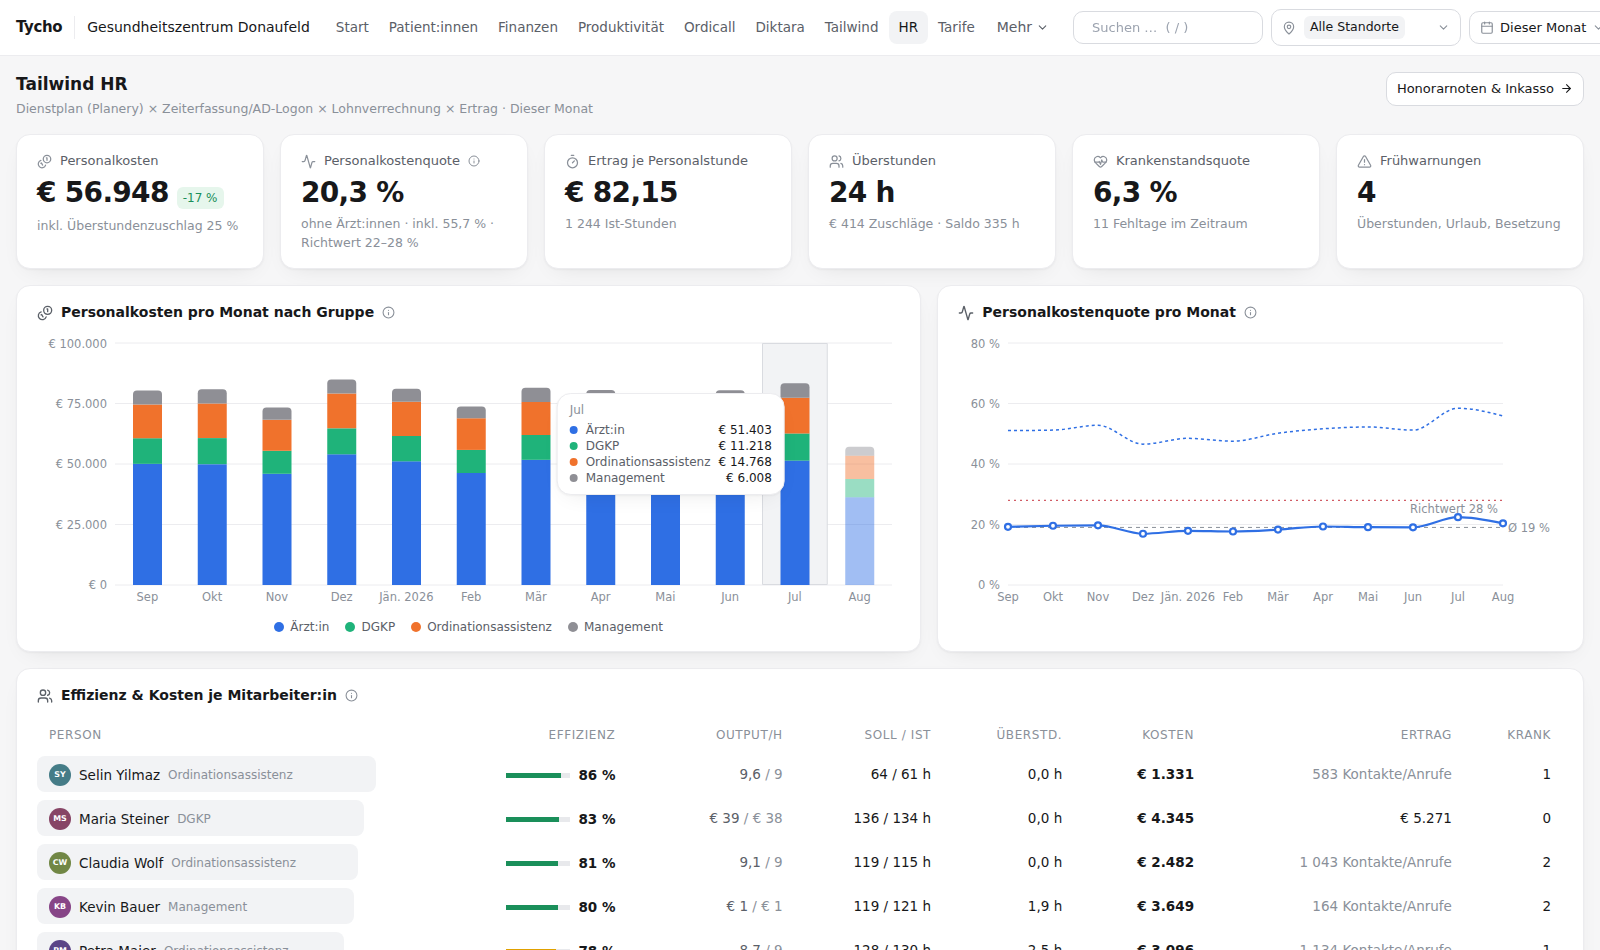
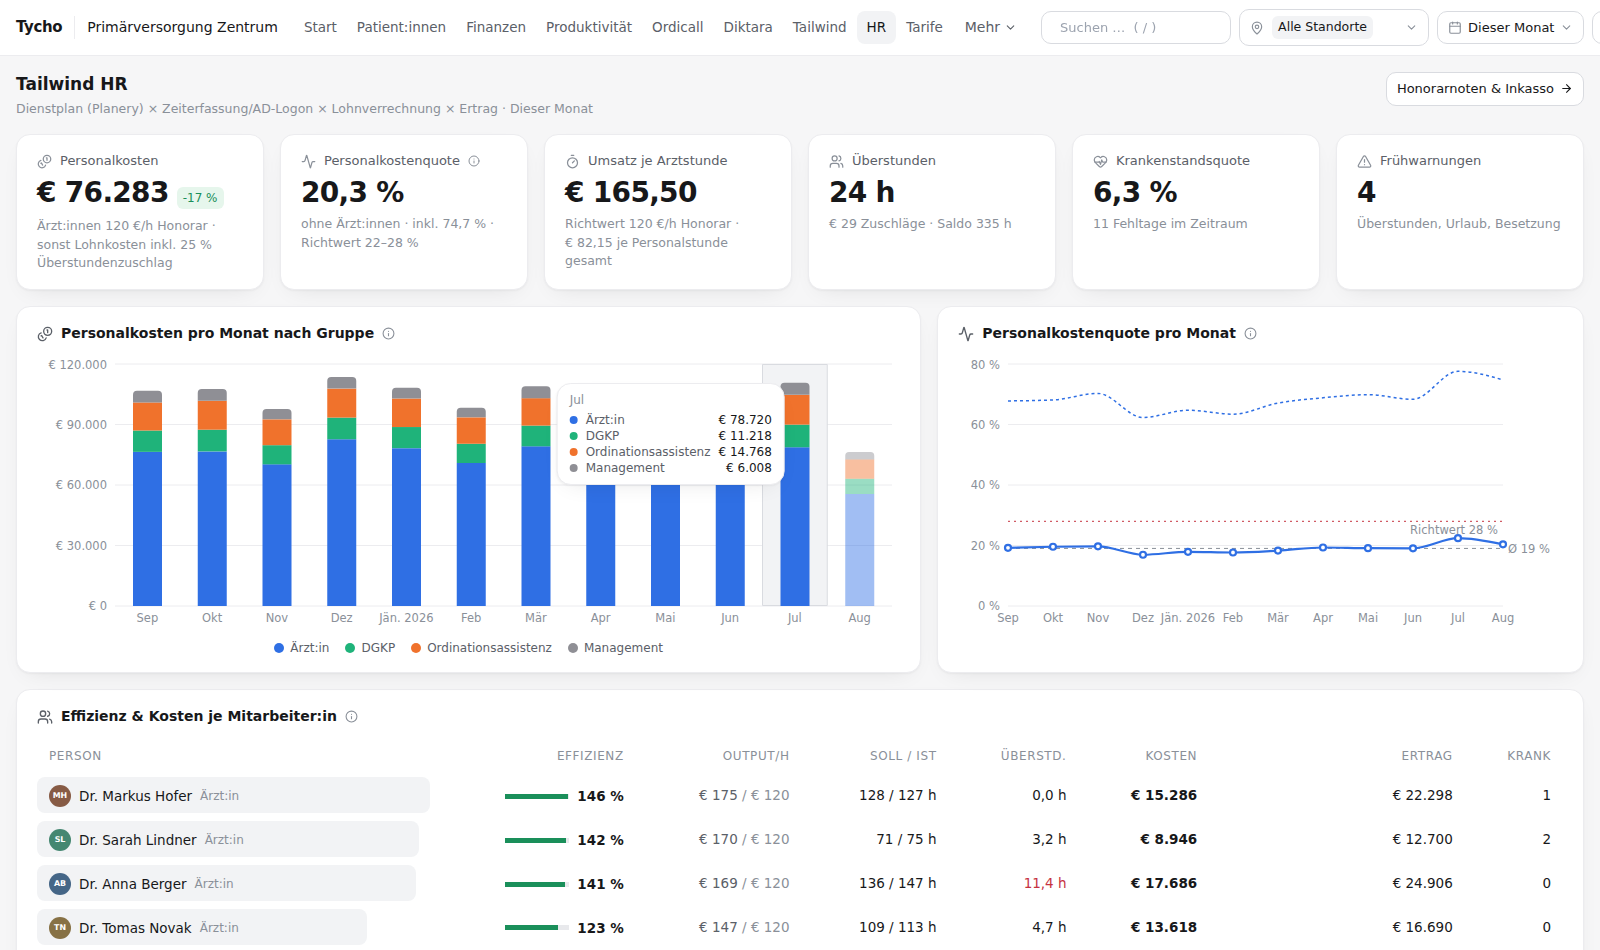
Beispiel: Primärversorgung Zentrum; Ärzt:innen mit 120 €/h Honorar als Kostensatz und Effizienz-Richtwert
Claude-Session: https://claude.ai/code/session_01JGQ8YRSs6aRVZk37yCCs7E

diff --git a/web/src/pages/HR.tsx b/web/src/pages/HR.tsx
@@ -37,9 +37,9 @@ export default function HRPage() {
       </div>
 
       <div className="grid grid-cols-2 lg:grid-cols-3 xl:grid-cols-6 gap-4">
-        <Kpi icon={<Coins size={15} />} label="Personalkosten" value={fmt.eur(cost)} delta={prevCost ? pctDelta(cost, prevCost) : null} sub="inkl. Überstundenzuschlag 25 %" invert />
+        <Kpi icon={<Coins size={15} />} label="Personalkosten" value={fmt.eur(cost)} delta={prevCost ? pctDelta(cost, prevCost) : null} sub="Ärzt:innen 120 €/h Honorar · sonst Lohnkosten inkl. 25 % Überstundenzuschlag" invert />
         <Kpi icon={<Activity size={15} />} label="Personalkostenquote" value={fmt.pct1(quote)} sub={`ohne Ärzt:innen · inkl. ${fmt.pct1(revenue ? cost / revenue : 0)} · Richtwert 22–28 %`} hint="Personalkosten (DGKP, Assistenz, Management) ÷ Umsatz. Ärzt:innen sind als Gesellschafter:innen nicht Personal im engeren Sinn; der Wert inklusive steht daneben." />
-        <Kpi icon={<Timer size={15} />} label="Ertrag je Personalstunde" value={fmt.eur2(perHour)} sub={`${fmt.num(Math.round(sum('istH')))} Ist-Stunden`} />
+        <Kpi icon={<Timer size={15} />} label="Umsatz je Arztstunde" value={fmt.eur2(rows.filter((r) => r.role === 'arzt').reduce((a, r) => a + r.revenue, 0) / Math.max(1, rows.filter((r) => r.role === 'arzt').reduce((a, r) => a + r.istH, 0)))} delta={null} sub={`Richtwert 120 €/h Honorar · ${fmt.eur2(perHour)} je Personalstunde gesamt`} />
         <Kpi icon={<Users size={15} />} label="Überstunden" value={`${fmt.num(Math.round(sum('overtimeH')))} h`} sub={`${fmt.eur(sum('overtimeCost'))} Zuschläge · Saldo ${fmt.num(HR.reduce((a, h) => a + h.overtimeBalanceH, 0))} h`} invert />
         <Kpi icon={<HeartPulse size={15} />} label="Krankenstandsquote" value={fmt.pct1(sick)} sub={`${sum('sickDays')} Fehltage im Zeitraum`} invert />
         <Kpi icon={<AlertTriangle size={15} />} label="Frühwarnungen" value={warnings.length} sub="Überstunden, Urlaub, Besetzung" />
@@ -78,11 +78,11 @@ export default function HRPage() {
         </Panel>
       </div>
 
-      <Panel icon={<Users size={16} />} title={personMode ? 'Effizienz & Kosten je Mitarbeiter:in' : 'Effizienz & Kosten je Gruppe'} hint="Soll aus Dienstplan (Planery), Ist aus Zeiterfassung/AD-Logon, Kosten aus Lohnverrechnung, Ertrag aus PVS und Ordicall. Effizienz = Output je Stunde ÷ Rollenziel (max. 125 %)">
+      <Panel icon={<Users size={16} />} title={personMode ? 'Effizienz & Kosten je Mitarbeiter:in' : 'Effizienz & Kosten je Gruppe'} hint="Soll aus Dienstplan (Planery), Ist aus Zeiterfassung/AD-Logon, Kosten aus Lohnverrechnung, Ertrag aus PVS und Ordicall. Effizienz = Output je Stunde ÷ Richtwert. Ärzt:innen: Umsatz je Stunde gegen das Honorar von 120 €/h (100 % = Honorar gedeckt), DGKP 38 €/h, Assistenz 9 Kontakte + Anrufe je Stunde">
         {personMode ? (
           <BarTable rows={[...rows].sort((a, b) => b.efficiency - a.efficiency)} keyOf={(r) => r.staffId} cols={[
             { key: 'n', label: 'Person', render: (r) => { const s = staffById(r.staffId)!; return <span className="inline-flex items-center gap-2 font-medium"><Avatar name={s.name} hue={s.avatarHue} size={22} />{s.name} <span className="text-ink-3 text-[12px] font-normal">{ROLE_LABEL[s.role]}</span></span> }, bar: (r) => r.efficiency },
-            { key: 'e', label: 'Effizienz', align: 'right', render: (r) => <span className="inline-flex items-center gap-2 justify-end"><span className="w-16"><MiniBar value={r.efficiency} tone={r.efficiency >= 0.8 ? 'var(--good-text)' : r.efficiency >= 0.6 ? '#e0a100' : 'var(--bad-text)'} height={5} /></span><span className="font-semibold">{fmt.pct(r.efficiency)}</span></span> },
+            { key: 'e', label: 'Effizienz', align: 'right', render: (r) => <span className="inline-flex items-center gap-2 justify-end"><span className="w-16"><MiniBar value={r.efficiency} tone={r.efficiency >= 1 ? 'var(--good-text)' : r.efficiency >= 0.8 ? '#e0a100' : 'var(--bad-text)'} max={1.5} height={5} /></span><span className="font-semibold">{fmt.pct(r.efficiency)}</span></span> },
             { key: 'o', label: 'Output/h', align: 'right', render: (r) => <span className="text-ink-2">{r.role === 'assistenz' ? fmt.num1(r.outputPerHour) : fmt.eur(Math.round(r.outputPerHour))} <span className="text-ink-3">/ {r.role === 'assistenz' ? r.target : fmt.eur(r.target)}</span></span> },
             { key: 's', label: 'Soll / Ist', align: 'right', render: (r) => `${fmt.num(Math.round(r.sollH))} / ${fmt.num(Math.round(r.istH))} h` },
             { key: 'ot', label: 'Überstd.', align: 'right', render: (r) => <span className={r.overtimeH > 10 ? 'text-status-critical' : ''}>{fmt.num1(r.overtimeH)} h</span> },
@@ -93,7 +93,7 @@ export default function HRPage() {
         ) : (
           <BarTable rows={groups} keyOf={(g) => g.role} cols={[
             { key: 'n', label: 'Gruppe', render: (g) => <span className="font-medium">{g.label} <span className="text-ink-3 text-[12px] font-normal">· {g.n} Personen</span></span>, bar: (g) => g.efficiency },
-            { key: 'e', label: 'Effizienz', align: 'right', render: (g) => <span className="font-semibold">{fmt.pct(g.efficiency)}</span> },
+            { key: 'e', label: 'Effizienz', align: 'right', render: (g) => <span className={`font-semibold ${g.efficiency >= 1 ? 'text-status-good' : g.efficiency >= 0.8 ? '' : 'text-status-critical'}`}>{fmt.pct(g.efficiency)}</span> },
             { key: 'o', label: 'Ø Output/h', align: 'right', render: (g) => <span className="text-ink-2">{g.role === 'assistenz' ? fmt.num1(g.outputPerHour) : fmt.eur(Math.round(g.outputPerHour))} <span className="text-ink-3">/ {g.role === 'assistenz' ? g.target : fmt.eur(g.target)} · {HR_TARGETS[g.role].label}</span></span> },
             { key: 's', label: 'Soll / Ist', align: 'right', render: (g) => `${fmt.num(Math.round(g.sollH))} / ${fmt.num(Math.round(g.istH))} h` },
             { key: 'ot', label: 'Überstd.', align: 'right', render: (g) => `${fmt.num1(g.overtimeH)} h` },

diff --git a/web/src/data/agent.ts b/web/src/data/agent.ts
@@ -49,7 +49,7 @@ const INTENTS: { test: RegExp; run: (q: string, d: Data, personMode: boolean) =>
   { test: /abbruch|verpasst|weiterleit/i, run: (_q, d) => { const t = d.calls.reduce((a, c) => a + c.total, 0), m = d.calls.reduce((a, c) => a + c.missed, 0), tr = d.calls.reduce((a, c) => a + c.transferred, 0); return { text: `Von ${fmt.num(t)} Anrufen wurden ${fmt.num(m)} (${fmt.pct1(m / t)}) abgebrochen und ${fmt.num(tr)} (${fmt.pct1(tr / t)}) ans Team weitergeleitet. Weiterleitungen betreffen vor allem Befundauskünfte, weil die KI dort aus Verschwiegenheitsgründen an den Empfang übergibt.`, chips: [{ label: 'Ordicall', to: '/ordicall' }] } } },
   { test: /anliegen.*(offen|lang)|ordicall überlassen|ganz ordicall/i, run: () => ({ text: `Am längsten offen bleiben Befundauskünfte (Ø 2 h 38 min bis erledigt). Ganz an Ordicall abgeben ließen sich Öffnungszeiten-Infos (98 % KI-Quote), Terminvereinbarung (91 %) und Rezeptbestellung (88 %).`, chips: [{ label: 'Ordicall', to: '/ordicall' }] }) },
   { test: /personalkosten|kostenquote|kosten.*(personal|mitarbeiter)|effizien.*(mitarbeiter|personal|team)|wer .*effizient|teuer/i, run: (_q, d, pm) => { const rows = hrRows(d.cur); const g = hrGroups(rows); const cost = rows.reduce((a, r) => a + r.cost, 0); const best = [...rows].sort((a, b) => b.efficiency - a.efficiency); return {
-    text: `Personalkosten im Zeitraum ${d.range.label}: ${eur(cost)}, das ist eine Personalkostenquote von ${fmt.pct1(rows.filter((r) => r.role !== 'arzt').reduce((a, r) => a + r.cost, 0) / (d.s.revenue * 1.2))} ohne Ärzt:innen (Richtwert 22–28 %; inklusive Ärzt:innen ${fmt.pct1(cost / (d.s.revenue * 1.2))}). Ertrag je Personalstunde ${fmt.eur2(d.s.revenue / rows.reduce((a, r) => a + r.istH, 0))}. ${pm ? `Effizienteste Person: ${STAFF.find((s) => s.id === best[0].staffId)?.name} (${fmt.pct(best[0].efficiency)} des Rollenziels), Nachholbedarf bei ${STAFF.find((s) => s.id === best[best.length - 1].staffId)?.name} (${fmt.pct(best[best.length - 1].efficiency)}).` : `Nach Gruppen: ${g.map((x) => `${x.label} ${fmt.pct(x.efficiency)}`).join(', ')}.`} Überstunden kosten ${eur(rows.reduce((a, r) => a + r.overtimeCost, 0))} Zuschläge.`,
+    text: `Personalkosten im Zeitraum ${d.range.label}: ${eur(cost)}, das ist eine Personalkostenquote von ${fmt.pct1(rows.filter((r) => r.role !== 'arzt').reduce((a, r) => a + r.cost, 0) / (d.s.revenue * 1.2))} ohne Ärzt:innen (Richtwert 22–28 %; inklusive Ärzt:innen ${fmt.pct1(cost / (d.s.revenue * 1.2))}). Ertrag je Personalstunde ${fmt.eur2(d.s.revenue / rows.reduce((a, r) => a + r.istH, 0))}. ${pm ? `Effizienteste Person: ${STAFF.find((s) => s.id === best[0].staffId)?.name} (${fmt.pct(best[0].efficiency)} des Richtwerts; Ärzt:innen gegen 120 €/h Honorar), Nachholbedarf bei ${STAFF.find((s) => s.id === best[best.length - 1].staffId)?.name} (${fmt.pct(best[best.length - 1].efficiency)}).` : `Nach Gruppen: ${g.map((x) => `${x.label} ${fmt.pct(x.efficiency)}`).join(', ')}.`} Überstunden kosten ${eur(rows.reduce((a, r) => a + r.overtimeCost, 0))} Zuschläge.`,
     table: { head: pm ? ['Person', 'Effizienz', 'Kosten', 'Ertrag'] : ['Gruppe', 'Effizienz', 'Kosten', 'Ertrag'], rows: pm ? best.map((r) => [STAFF.find((s) => s.id === r.staffId)!.name, fmt.pct(r.efficiency), eur(r.cost), r.revenue ? eur(r.revenue) : `${fmt.num(r.contacts + r.calls)} Kontakte`]) : g.map((x) => [x.label, fmt.pct(x.efficiency), eur(x.cost), x.revenue ? eur(x.revenue) : `${fmt.num(x.contacts + x.calls)} Kontakte`]) },
     chips: [{ label: 'Tailwind HR', to: '/hr' }] } } },
   { test: /besetz|unterbesetzt|dienstplan|schicht/i, run: () => ({ text: `Laut Dienstplan (Planery) sind Montag bis Donnerstag 9–11 Uhr drei Assistenzkräfte eingeplant, das Aufkommen liegt dort trotzdem bei über 6 Kontakten je Kraft und Stunde – Empfehlung: montags eine vierte Kraft 9–11 Uhr. Freitag ab 13 Uhr ist mit unter 2,5 Kontakten je Kraft Reserve, eine Kraft weniger spart rund 4 Stunden je Woche.`, chips: [{ label: 'Besetzung ansehen', to: '/hr' }] }) },

diff --git a/web/src/data/staff.ts b/web/src/data/staff.ts
@@ -3,11 +3,12 @@ import type { StaffMember } from './types'
 // Personalstamm – in Produktion aus Microsoft Active Directory (LDAP, read-only):
 // sAMAccountName, userPrincipalName, displayName, title, department, memberOf.
 // Kosten/FTE kommen aus dem Dienstplan bzw. der Lohnverrechnung (Import, read-only).
+// Ärzt:innen der PVE erhalten 120 € Honorar je Stunde (Kosten = 120 × FTE × 173 h).
 export const STAFF: StaffMember[] = [
-  { id: 'a.berger', account: 'a.berger', upn: 'a.berger@ordination.local', name: 'Dr. Anna Berger', title: 'Ärztliche Leitung · Allgemeinmedizin', role: 'arzt', department: 'Ärzte', fte: 1, costPerMonth: 14500, adGroups: ['G_Aerzte', 'G_Diktara', 'G_Tycho_Leitung', 'G_Tycho_Admin'], consent: 'erteilt', avatarHue: 210, since: '2014-03-01' },
-  { id: 'm.hofer', account: 'm.hofer', upn: 'm.hofer@ordination.local', name: 'Dr. Markus Hofer', title: 'Allgemeinmedizin', role: 'arzt', department: 'Ärzte', fte: 1, costPerMonth: 12800, adGroups: ['G_Aerzte', 'G_Diktara'], consent: 'erteilt', avatarHue: 20, since: '2017-09-01' },
-  { id: 's.lindner', account: 's.lindner', upn: 's.lindner@ordination.local', name: 'Dr. Sarah Lindner', title: 'Allgemeinmedizin · Teilzeit', role: 'arzt', department: 'Ärzte', fte: 0.6, costPerMonth: 7900, adGroups: ['G_Aerzte', 'G_Diktara'], consent: 'erteilt', avatarHue: 160, since: '2021-01-11' },
-  { id: 't.novak', account: 't.novak', upn: 't.novak@ordination.local', name: 'Dr. Tomas Novak', title: 'Allgemeinmedizin · seit 03/2026', role: 'arzt', department: 'Ärzte', fte: 0.8, costPerMonth: 10200, adGroups: ['G_Aerzte', 'G_Diktara'], consent: 'erteilt', avatarHue: 40, since: '2026-03-02' },
+  { id: 'a.berger', account: 'a.berger', upn: 'a.berger@ordination.local', name: 'Dr. Anna Berger', title: 'Ärztliche Leitung · Allgemeinmedizin', role: 'arzt', department: 'Ärzte', fte: 1, costPerMonth: 20760, adGroups: ['G_Aerzte', 'G_Diktara', 'G_Tycho_Leitung', 'G_Tycho_Admin'], consent: 'erteilt', avatarHue: 210, since: '2014-03-01' },
+  { id: 'm.hofer', account: 'm.hofer', upn: 'm.hofer@ordination.local', name: 'Dr. Markus Hofer', title: 'Allgemeinmedizin', role: 'arzt', department: 'Ärzte', fte: 1, costPerMonth: 20760, adGroups: ['G_Aerzte', 'G_Diktara'], consent: 'erteilt', avatarHue: 20, since: '2017-09-01' },
+  { id: 's.lindner', account: 's.lindner', upn: 's.lindner@ordination.local', name: 'Dr. Sarah Lindner', title: 'Allgemeinmedizin · Teilzeit', role: 'arzt', department: 'Ärzte', fte: 0.6, costPerMonth: 12456, adGroups: ['G_Aerzte', 'G_Diktara'], consent: 'erteilt', avatarHue: 160, since: '2021-01-11' },
+  { id: 't.novak', account: 't.novak', upn: 't.novak@ordination.local', name: 'Dr. Tomas Novak', title: 'Allgemeinmedizin · seit 03/2026', role: 'arzt', department: 'Ärzte', fte: 0.8, costPerMonth: 16608, adGroups: ['G_Aerzte', 'G_Diktara'], consent: 'erteilt', avatarHue: 40, since: '2026-03-02' },
   { id: 'm.steiner', account: 'm.steiner', upn: 'm.steiner@ordination.local', name: 'Maria Steiner', title: 'DGKP · Pflegeleitung', role: 'dgkp', department: 'Pflege', fte: 1, costPerMonth: 5600, adGroups: ['G_Pflege'], consent: 'erteilt', avatarHue: 330, since: '2016-05-02' },
   { id: 'j.pichler', account: 'j.pichler', upn: 'j.pichler@ordination.local', name: 'Jonas Pichler', title: 'DGKP', role: 'dgkp', department: 'Pflege', fte: 0.75, costPerMonth: 4300, adGroups: ['G_Pflege'], consent: 'erteilt', avatarHue: 120, since: '2023-10-02' },
   { id: 'p.maier', account: 'p.maier', upn: 'p.maier@ordination.local', name: 'Petra Maier', title: 'Ordinationsassistenz · Leitung', role: 'assistenz', department: 'Empfang', fte: 1, costPerMonth: 4100, adGroups: ['G_Empfang', 'G_Ordicall_Admin'], consent: 'erteilt', avatarHue: 260, since: '2012-02-01' },

diff --git a/web/src/data/tailwind.ts b/web/src/data/tailwind.ts
@@ -172,10 +172,11 @@ import { demo as _demo } from './mock'
 import type { DayRecord, Role } from './types'
 
 /** Stundensatz (AG-Gesamtkosten) je Person */
-export const hourlyRate = (staffId: string) => { const s = _STAFF.find((x) => x.id === staffId)!; return s.costPerMonth / (s.fte * 173) }
+export const DOCTOR_HOURLY = 120 // € Honorar je Stunde (PVE-Vertrag)
+export const hourlyRate = (staffId: string) => { const s = _STAFF.find((x) => x.id === staffId)!; return s.role === 'arzt' ? DOCTOR_HOURLY : s.costPerMonth / (s.fte * 173) }
 /** Zielwerte je Rolle: Ertrag bzw. Output je bezahlter Stunde */
 export const HR_TARGETS: Record<Role, { label: string; target: number; unit: string }> = {
-  arzt: { label: 'Umsatz je Stunde', target: 190, unit: '€/h' },
+  arzt: { label: 'Umsatz je Stunde vs. Honorar 120 €/h', target: DOCTOR_HOURLY, unit: '€/h' },
   dgkp: { label: 'Umsatz je Stunde', target: 38, unit: '€/h' },
   assistenz: { label: 'Kontakte + Anrufe je Stunde', target: 9, unit: '/h' },
   management: { label: 'Prozessqualität', target: 1, unit: '' },
@@ -195,13 +196,13 @@ export function hrRows(recs: DayRecord[]): HrRow[] {
     const sollH = s.fte * 8.5 * worked.length
     const overtimeH = Math.max(0, istH - sollH)
     const rate = hourlyRate(s.id)
-    const cost = istH * rate + overtimeH * rate * 0.25
+    const cost = s.role === 'arzt' ? istH * rate : istH * rate + overtimeH * rate * 0.25 // Honorar je Stunde ohne Zuschlag
     const revenue = worked.reduce((a, r) => a + r.servicesValue, 0)
     const contacts = worked.reduce((a, r) => a + r.patientContacts, 0)
     const calls = worked.reduce((a, r) => a + r.callsHandled, 0)
     const output = s.role === 'arzt' || s.role === 'dgkp' ? (istH ? revenue / istH : 0) : s.role === 'assistenz' ? (istH ? (contacts + calls) / istH : 0) : 1
     const t = HR_TARGETS[s.role].target
-    return { staffId: s.id, role: s.role, days, sollH, istH, overtimeH, cost, overtimeCost: overtimeH * rate * 0.25, revenue, contacts, calls, outputPerHour: output, target: t, efficiency: Math.min(1.25, output / t) / 1.25, sickDays: rs.length - worked.length, ratePerH: rate }
+    return { staffId: s.id, role: s.role, days, sollH, istH, overtimeH, cost, overtimeCost: s.role === 'arzt' ? 0 : overtimeH * rate * 0.25, revenue, contacts, calls, outputPerHour: output, target: t, efficiency: t ? output / t : 0, sickDays: rs.length - worked.length, ratePerH: rate }
   }).filter((r) => r.istH > 0)
 }
 
@@ -222,7 +223,7 @@ export function hrMonthly() {
     const s = _STAFF.find((x) => x.id === r.staffId)!
     row.revenue += r.servicesValue * 1.2
     const istH = r.presenceMin / 60; const rate = hourlyRate(s.id); const ot = Math.max(0, istH - s.fte * 8.5)
-    row[s.role] += istH * rate + ot * rate * 0.25
+    row[s.role] += s.role === 'arzt' ? istH * rate : istH * rate + ot * rate * 0.25
     row.overtimeH += ot; if (r.presenceMin === 0) row.sickDays += 1
     map.set(key, row)
   }

diff --git a/web/src/data/score.ts b/web/src/data/score.ts
@@ -87,7 +87,7 @@ function componentsFor(staff: StaffMember, k: ReturnType<typeof kpisFor>): Score
     case 'arzt':
       return [
         { key: 'throughput', label: 'Durchsatz', value: k.contactsPerHour, target: 5.6, weight: 0.22, unit: 'Pat./h', hint: 'Patientenkontakte je Präsenzstunde (AD-Logon bis Logoff).' },
-        { key: 'contribution', label: 'Ertrag / Kosten', value: k.cost ? k.revenue / k.cost : 0, target: 2.2, weight: 0.24, unit: '×', hint: 'Verrechnete Leistungen im Verhältnis zu den Arbeitgeberkosten des Zeitraums.' },
+        { key: 'contribution', label: 'Ertrag / Honorar', value: k.cost ? k.revenue / k.cost : 0, target: 1.4, weight: 0.24, unit: '×', hint: 'Verrechnete Leistungen im Verhältnis zum Honorar (120 € je Stunde); 1,0 = Honorar gedeckt, Ziel 1,4.' },
         { key: 'doc', label: 'Dokumentation', value: k.docCompleteness, target: 0.97, weight: 0.16, unit: '', hint: 'Vollständigkeit von Kartei, ICD-10-Codierung und Leistungsblatt.' },
         { key: 'diktara', label: 'Diktara-Nutzung', value: k.diktaraShare, target: 0.8, weight: 0.1, unit: '', hint: 'Anteil der Konsultationen mit KI-Zusammenfassung.' },
         { key: 'telemed', label: 'Telemedizin', value: k.telemedShare, target: 0.15, weight: 0.12, unit: '', hint: 'Anteil telemedizinischer Konsultationen (Kennzeichnung 8xT, TM-V/TM-T) an allen Kontakten.' },

diff --git a/web/src/pages/Tarife.tsx b/web/src/pages/Tarife.tsx
@@ -52,7 +52,7 @@ export default function Tarife() {
       </div>
 
       {tab === 'katalog' && (
-        <Panel icon={<BookOpen size={16} />} title={`Honorarkatalog · ${PRACTICE.location} · Allgemeinmedizin`} hint="Struktur nach ÖGK-Honorarordnung (Kennzeichnungspositionen 8a–8i/8aT–8iT, PERS, Erstkontakt 10, 18EZ, 20, 34, 34a, 39, VU, MKP). Tarife sind Demo-Werte; der Landeskatalog wird importiert.">
+        <Panel icon={<BookOpen size={16} />} title={`Honorarkatalog · ${PRACTICE.name} · Allgemeinmedizin`} hint="Struktur nach ÖGK-Honorarordnung (Kennzeichnungspositionen 8a–8i/8aT–8iT, PERS, Erstkontakt 10, 18EZ, 20, 34, 34a, 39, VU, MKP). Tarife sind Demo-Werte; der Landeskatalog wird importiert.">
           <div className="overflow-x-auto"><table className="w-full text-[13px] min-w-[900px]">
             <thead><tr>{['Pos.', 'Leistung', 'Gruppe', 'Tarif', 'Anzahl', 'Umsatz', 'Regel / Limitierung', 'Träger', 'Rhythmus', 'Erbringung'].map((h, i) => <th key={h} className={`label uppercase tracking-[0.05em] text-[11px] px-3 py-2 ${i >= 3 && i <= 5 ? 'text-right' : 'text-left'}`}>{h}</th>)}</tr></thead>
             <tbody>{rows.map((s) => (

diff --git a/web/src/components/Layout.tsx b/web/src/components/Layout.tsx
@@ -55,7 +55,7 @@ const STATION_FACETS: Chrome['facets'] = [
     { title: 'Leistungsgruppe', sortable: true, rows: [{ label: 'Grundleistung', count: 7731 }, { label: 'Einzelleistung', count: 3985 }, { label: 'Labor', count: 3114 }, { label: 'Telemedizin', count: 794 }, { label: 'Vorsorge', count: 344 }] },
     { title: 'Terminart', rows: [{ label: 'Akut', count: 1980 }, { label: 'Kontrolle', count: 1420 }, { label: 'Blutabnahme', count: 980 }, { label: 'Video', count: 340 }, { label: 'Vorsorge (VU)', count: 210 }] },
     { title: 'Datum', rows: [{ label: 'August 2026', count: 2019 }, { label: 'Juli 2026', count: 2340 }, { label: 'Juni 2026', count: 2190 }] },
-    { title: 'Standort', rows: [{ label: 'Ordination Donaufeld', count: 5421 }] },
+    { title: 'Standort', rows: [{ label: 'Primärversorgung Zentrum', count: 5421 }] },
   ] },
 ]
 const CHROME: Record<string, Chrome> = {

diff --git a/web/src/components/Period.tsx b/web/src/components/Period.tsx
@@ -49,7 +49,7 @@ export function LocationPicker() {
   const f = useFilters()
   const [open, setOpen] = useState(false)
   const ref = useOutside(() => setOpen(false))
-  const opts = [{ key: 'alle', label: 'Alle Standorte' }, { key: 'donaufeld', label: 'Ordination Donaufeld (Wien 21)' }]
+  const opts = [{ key: 'alle', label: 'Alle Standorte' }, { key: 'donaufeld', label: 'Primärversorgung Zentrum (Wien)' }]
   return (
     <div ref={ref} className="relative">
       <button onClick={() => setOpen((o) => !o)} className="bp-btn whitespace-nowrap min-w-[190px] justify-between"><span className="inline-flex items-center gap-2"><MapPin size={14} className="text-ink-3" /><span className="bg-surface-2 rounded-md px-1.5 py-0.5 text-[12.5px]">{opts.find((o) => o.key === f.location)?.label}</span></span><ChevronDown size={13} className="text-ink-3" /></button>

diff --git a/web/src/data/mock.ts b/web/src/data/mock.ts
@@ -17,9 +17,11 @@ export const HISTORY_START = new Date('2025-09-01')
 export const GO_LIVE = { diktara: new Date('2026-05-04'), ordicall: new Date('2026-06-01'), tycho: new Date('2026-07-13') }
 
 export const PRACTICE = {
-  name: 'Gesundheitszentrum Donaufeld',
-  type: 'Gruppenpraxis Allgemeinmedizin · 4 Kassenverträge (ÖGK, SVS, BVAEB)',
-  location: 'Wien 21',
+  name: 'Primärversorgung Zentrum',
+  type: 'Primärversorgungseinheit (PVE) · Allgemeinmedizin · ÖGK, SVS, BVAEB',
+  location: 'Wien',
+  /** Honorar der Ärzt:innen in der PVE: 120 € je Stunde – Kostensatz und Effizienz-Richtwert */
+  doctorHourly: 120,
   openingHours: 'Mo–Fr 07:30–18:00',
   domain: 'ordination.local',
   server: 'TS-ORD-01 (Windows Server 2022, Terminalserver)',

diff --git a/README.md b/README.md
@@ -83,7 +83,7 @@ docs/    Architektur, Research (Features, Recht, Sicherheit), offene Entscheidun
 
 ## Demo-Daten
 
-Alle Zahlen sind deterministisch erzeugte Demo-Daten (Seed im Code) für eine fiktive Gruppenpraxis Allgemeinmedizin in Wien (PVS: CGM MedXPert) mit 4 Ärzt:innen, 2 DGKP, 4 Ordinationsassistentinnen und 1 Ordinationsmanager. Positionen und Tarife sind an eine ÖGK-Honorarordnung angelehnt, aber keine echten Tarife. Datenstand ist auf den 24.08.2026 fixiert (Q3 2026, Tag 56 von 92), damit die Prognose sichtbar bleibt.
+Alle Zahlen sind deterministisch erzeugte Demo-Daten (Seed im Code) für eine fiktive Primärversorgungseinheit „Primärversorgung Zentrum“ in Wien (PVS: CGM MedXPert, Ärzt:innen mit 120 €/h Honorar) mit 4 Ärzt:innen, 2 DGKP, 4 Ordinationsassistentinnen und 1 Ordinationsmanager. Positionen und Tarife sind an eine ÖGK-Honorarordnung angelehnt, aber keine echten Tarife. Datenstand ist auf den 24.08.2026 fixiert (Q3 2026, Tag 56 von 92), damit die Prognose sichtbar bleibt.
 
 ## Screenshots
 
